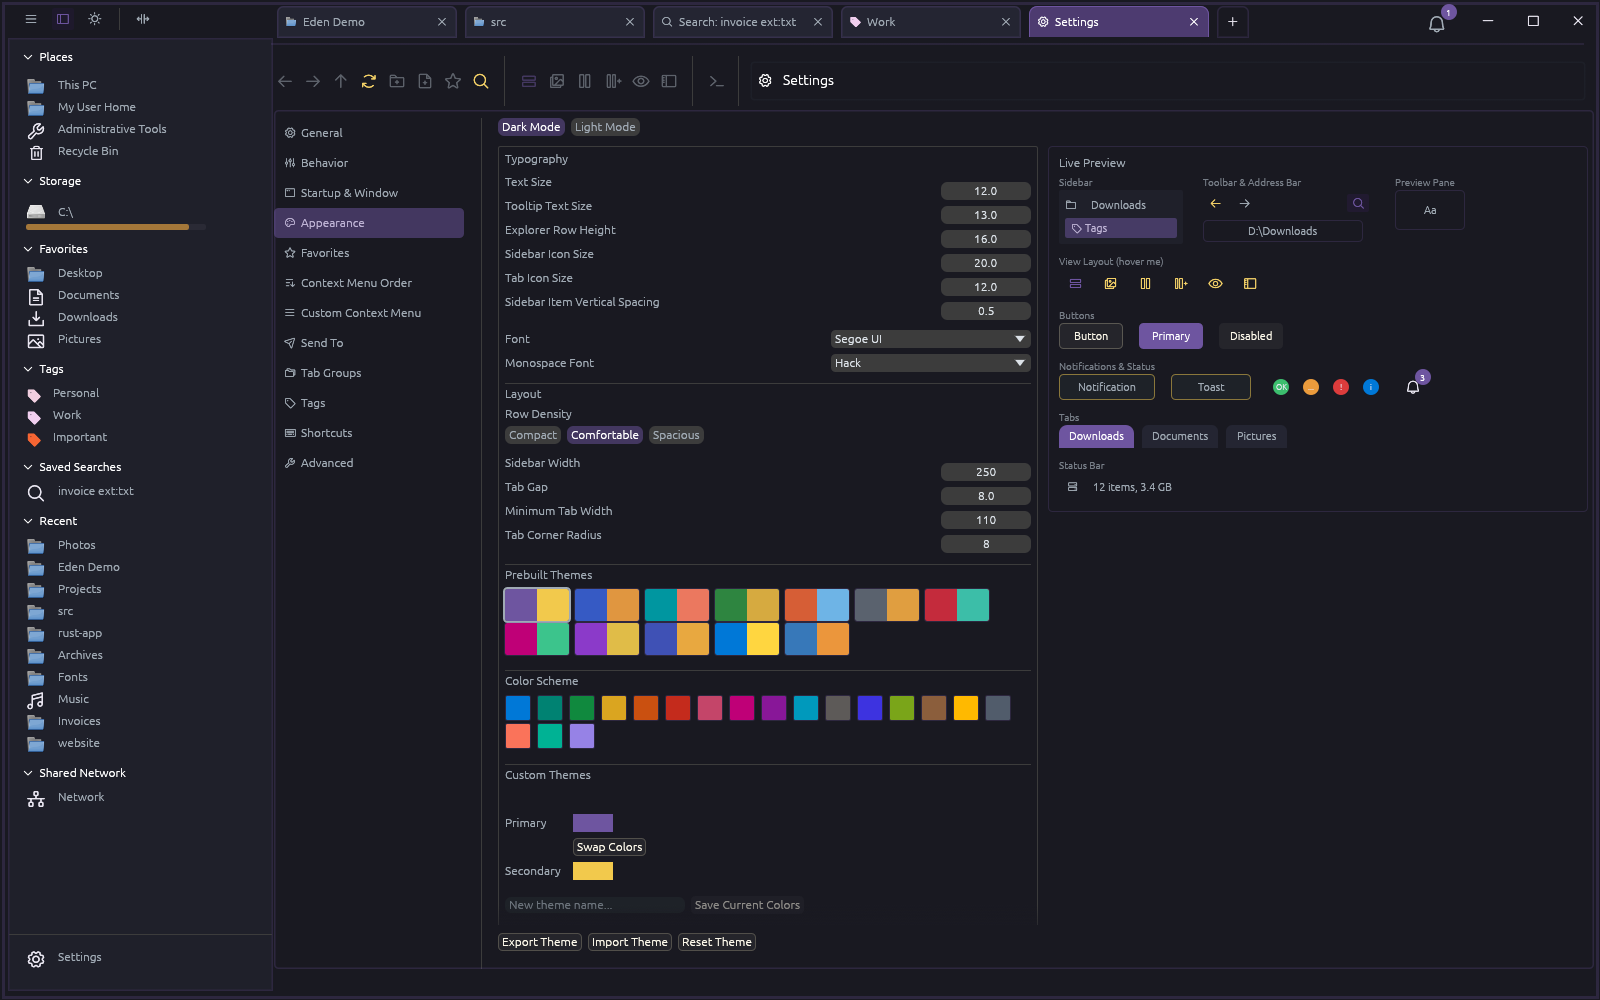
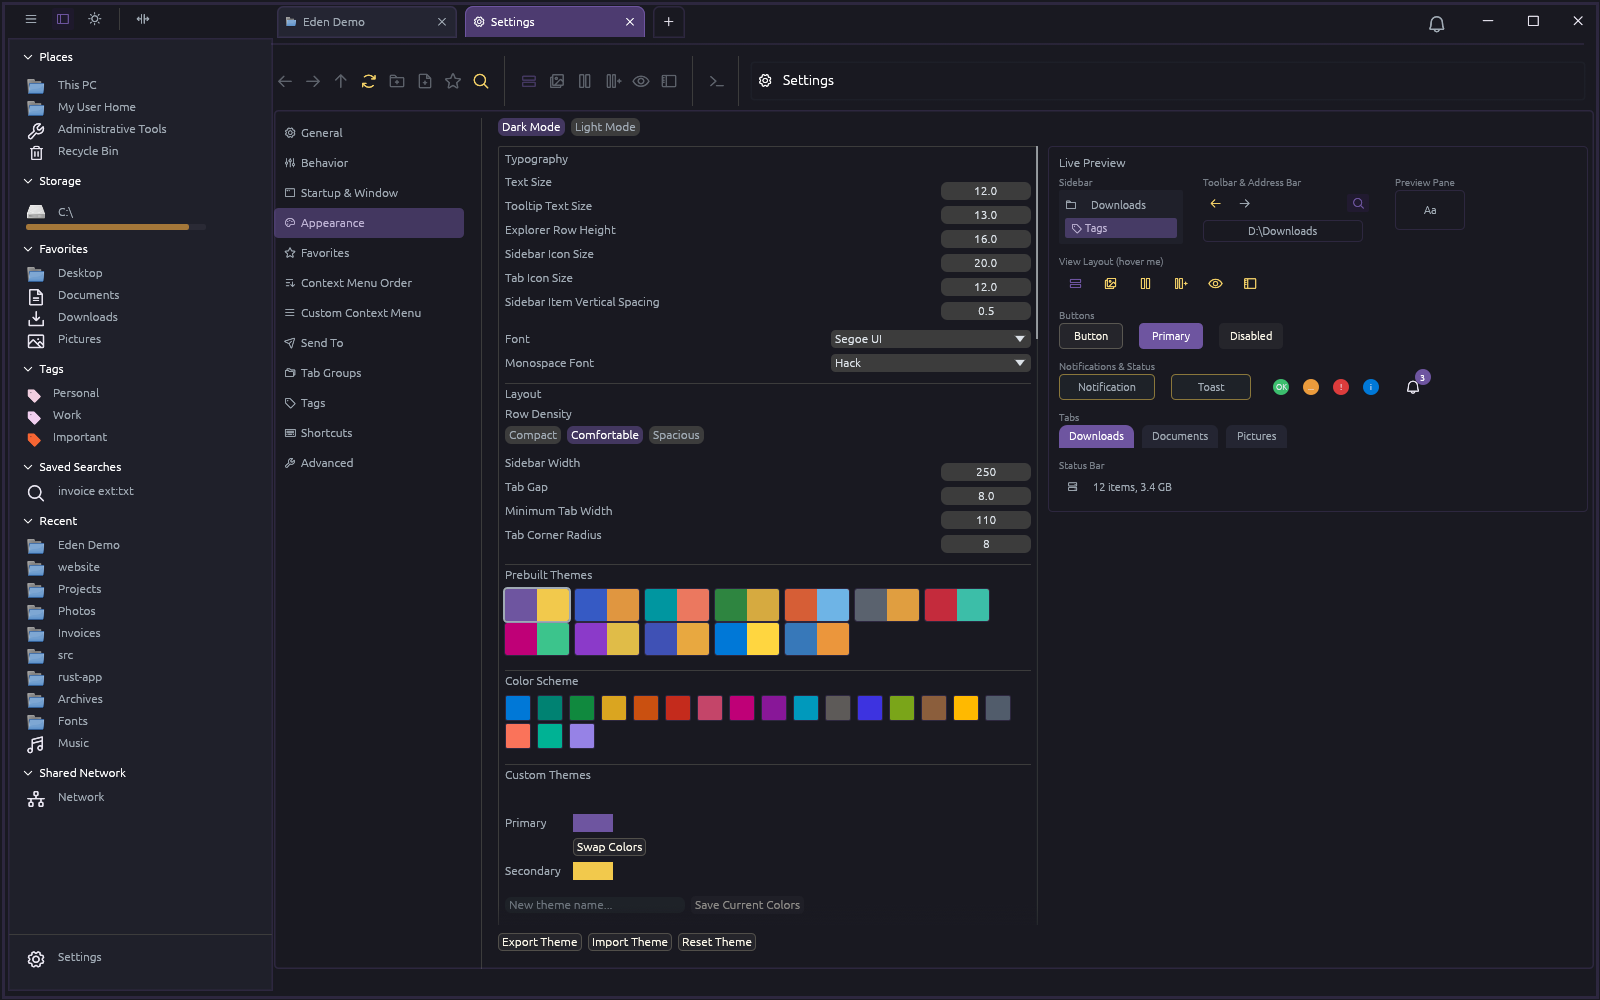
docs: Update screenshots and walkthrough GIF for Title Case and sidebar sections
Claude-Session: https://claude.ai/code/session_01NnbUtrCJDbJrzn3g1Wvtm7

diff --git a/Screenshots/README.md b/Screenshots/README.md
@@ -6,7 +6,7 @@ All screenshots were taken with sample data (the `Eden Demo` folder: photos, a s
 
 ![EdenExplorer walkthrough](eden-explorer-walkthrough.gif)
 
-Browsing Photos in Gallery and Details + Preview, previewing a Markdown file with a Mermaid diagram and a Python file, running a search, opening a tag view, and opening Settings > Shortcuts.
+Browsing Photos in Gallery and Details + Preview, previewing a Markdown file with a Mermaid diagram and a Python file, running a search, opening a tag view, opening Settings > Shortcuts, and hiding and re-showing sidebar sections from Settings > General.
 
 ## Features
 
@@ -122,7 +122,7 @@ Browsing Photos in Gallery and Details + Preview, previewing a Markdown file wit
 
 ![Light theme](28-light-theme.png)
 
-### Settings - General
+### Settings - General, including the new Sidebar Sections card
 
 ![Settings - General](29-settings-general.png)
 
@@ -169,3 +169,7 @@ Browsing Photos in Gallery and Details + Preview, previewing a Markdown file wit
 ### Settings - Advanced
 
 ![Settings - Advanced](40-settings-advanced.png)
+
+### Settings - General > Sidebar Sections, with Saved Searches, Recent, and Shared Network hidden from the sidebar
+
+![Sidebar sections hidden](41-sidebar-sections-hidden.png)

diff --git a/README.md b/README.md
@@ -120,7 +120,7 @@
 | ![Markdown and Mermaid preview](Screenshots/07-markdown-mermaid-preview.png) | ![Split view](Screenshots/13-split-view.png) |
 | ![Bulk rename](Screenshots/23-bulk-rename.png) | ![Settings - Shortcuts](Screenshots/39-settings-shortcuts.png) |
 
-See the [Screenshots folder](Screenshots/README.md) for all 40 feature screenshots.
+See the [Screenshots folder](Screenshots/README.md) for all 41 feature screenshots.
 
 ## Star History
 
